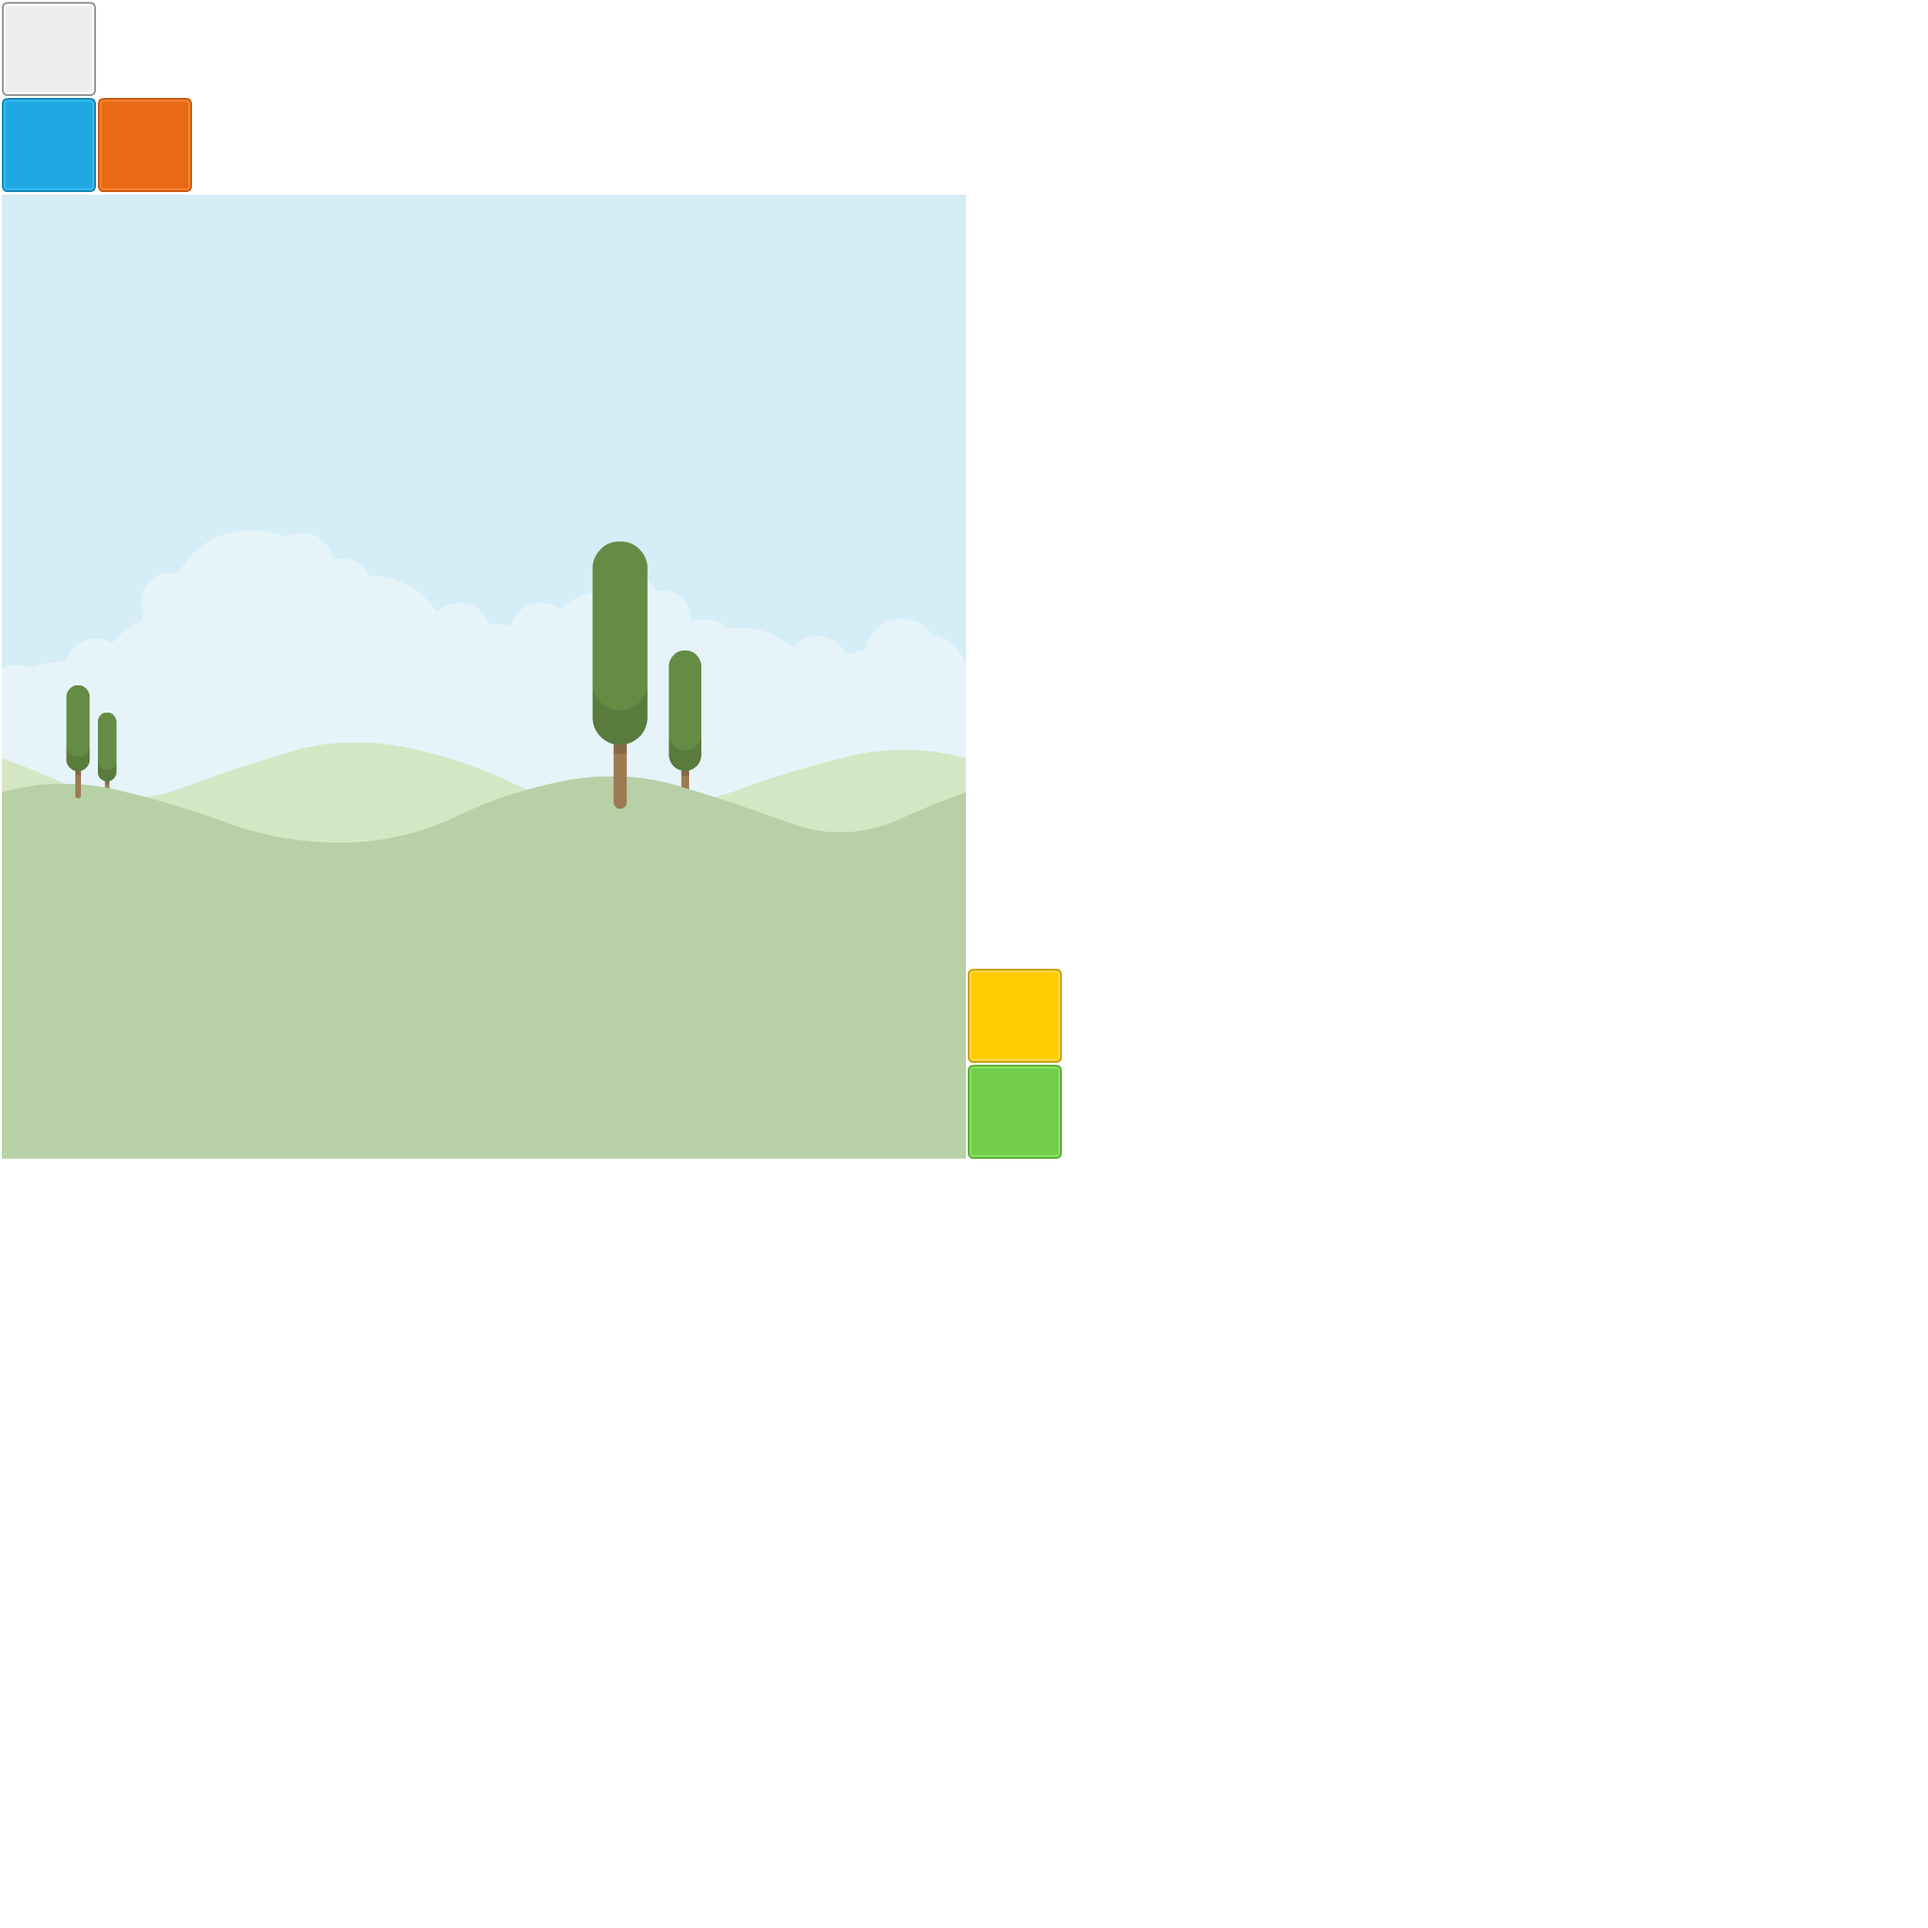
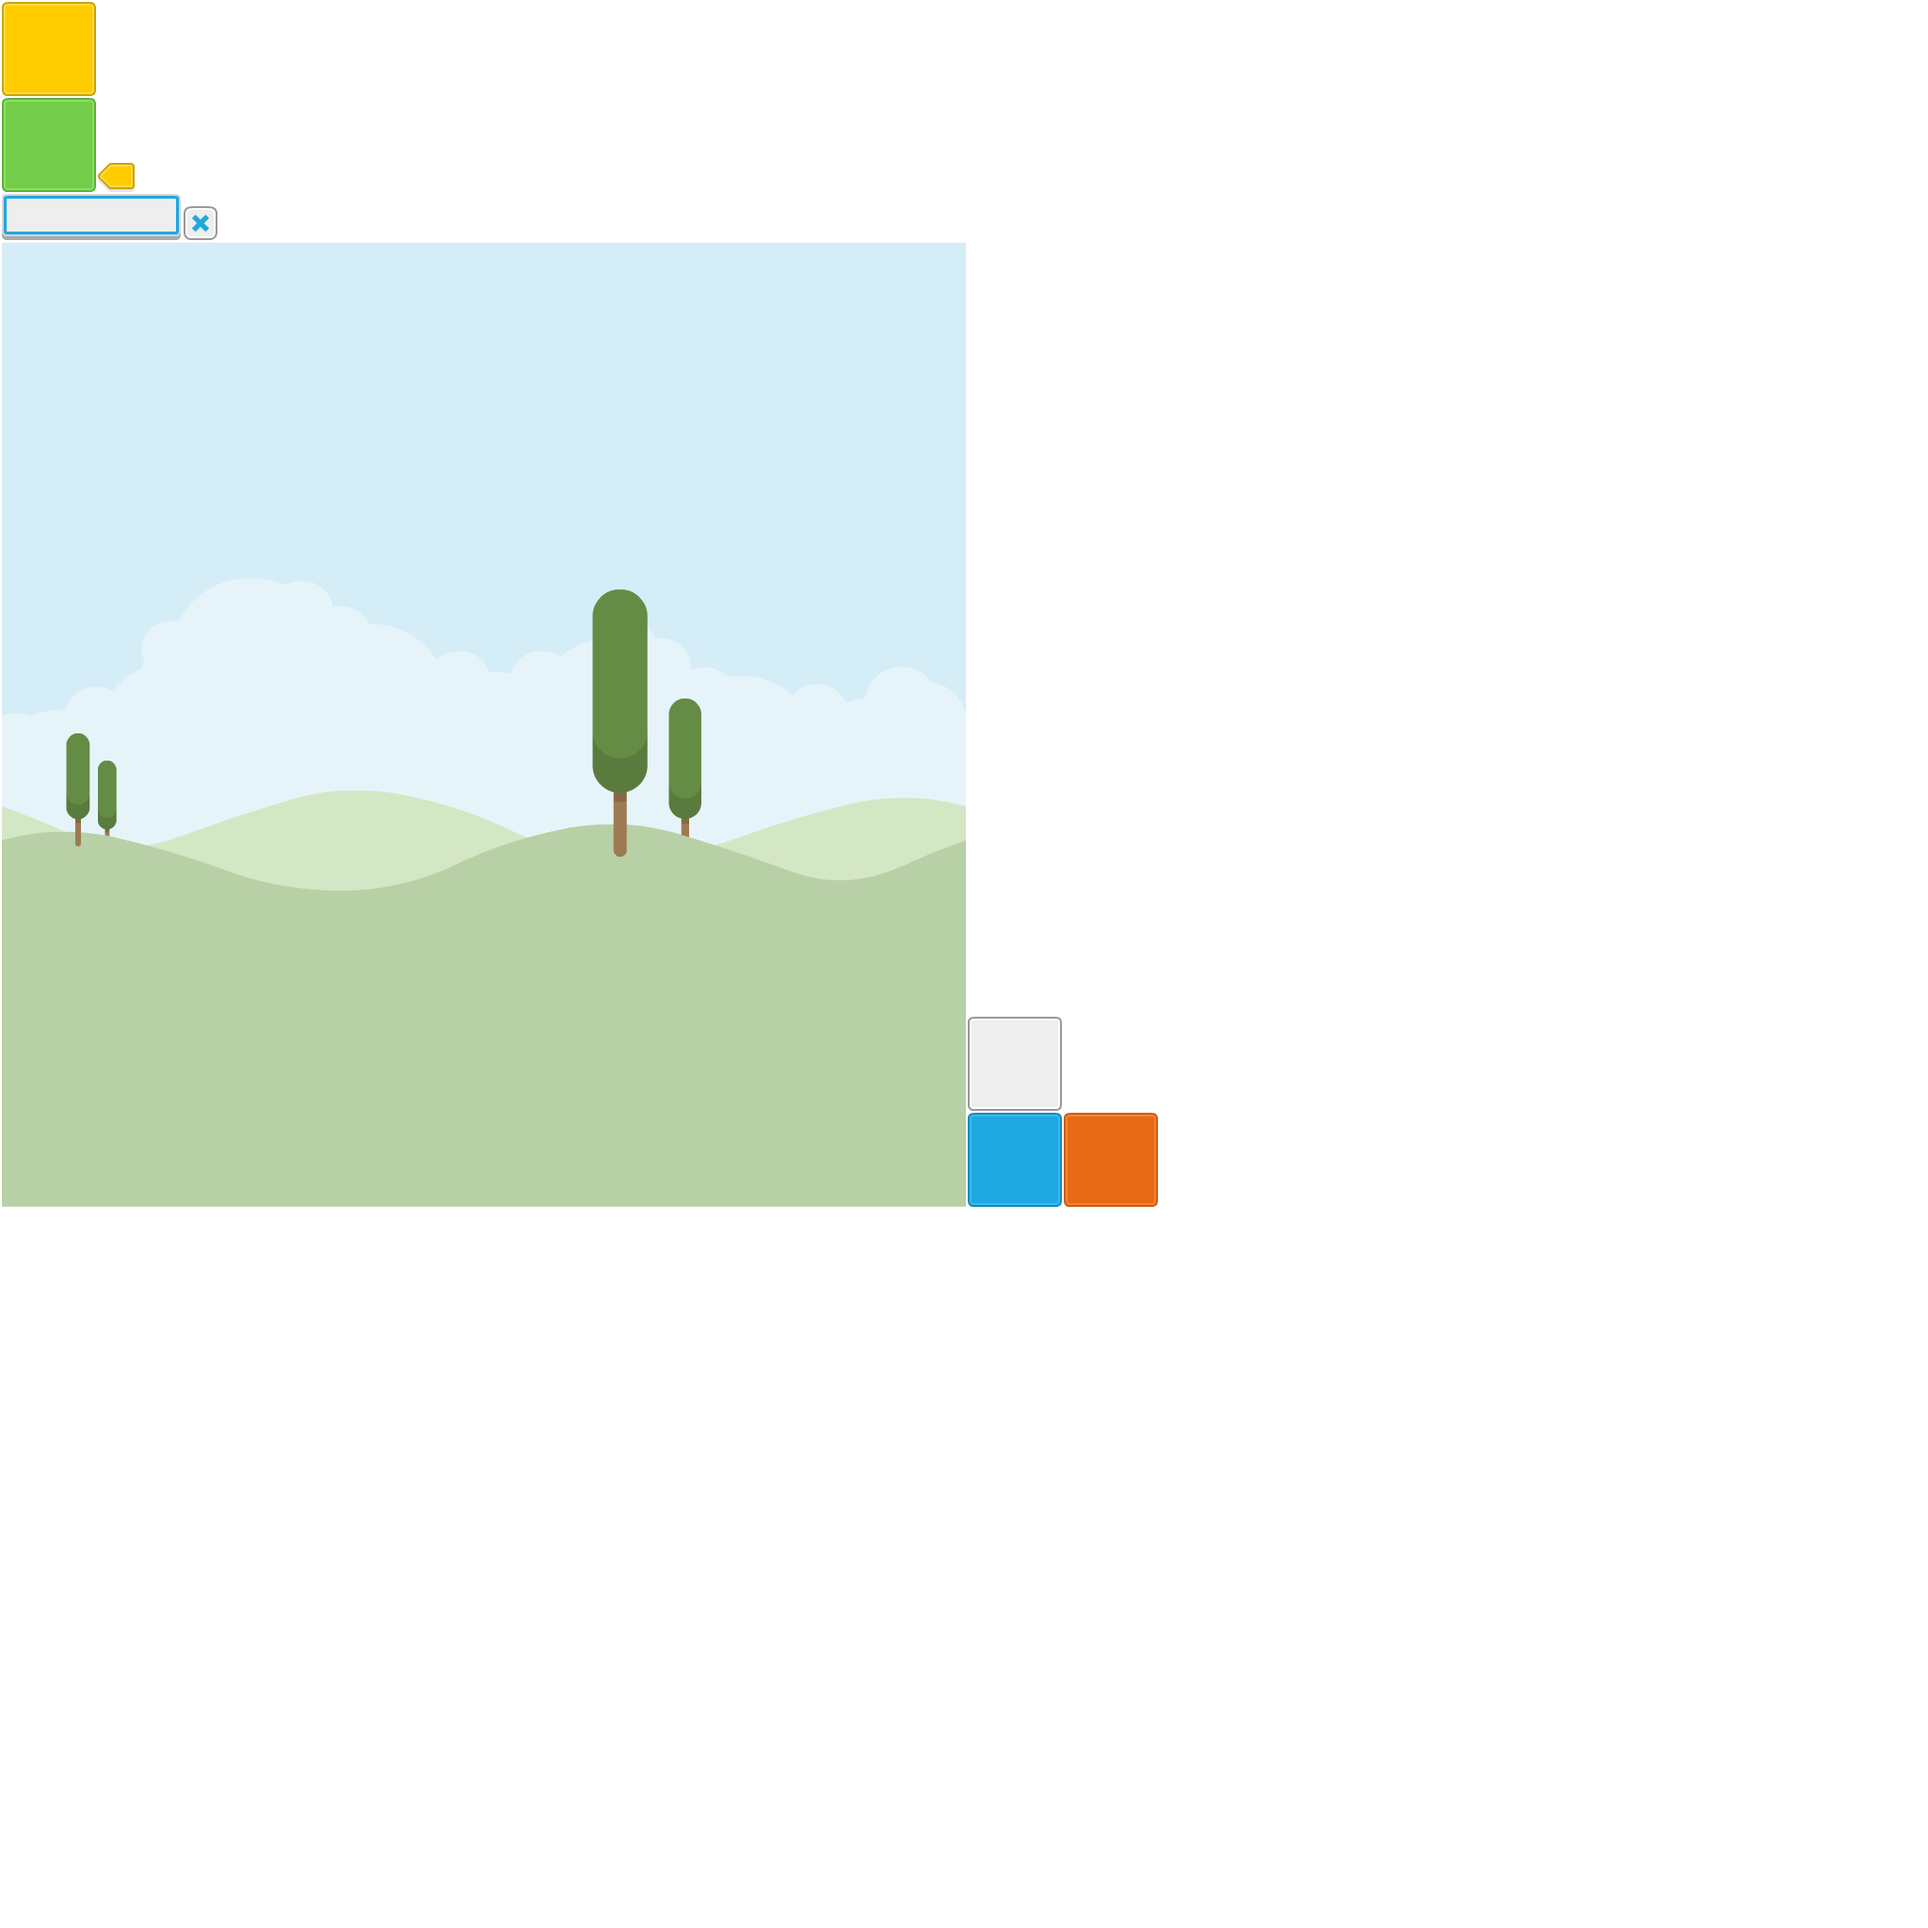
Added game UI using Overlay2D.

diff --git a/core/src/com/nicktoony/getaway/rooms/RoomGame.java b/core/src/com/nicktoony/getaway/rooms/RoomGame.java
@@ -1,7 +1,6 @@
 package com.nicktoony.getaway.rooms;
 
 import com.badlogic.gdx.Gdx;
-import com.badlogic.gdx.Screen;
 import com.badlogic.gdx.audio.Music;
 import com.badlogic.gdx.graphics.GL20;
 import com.badlogic.gdx.graphics.OrthographicCamera;
@@ -9,11 +8,12 @@ import com.badlogic.gdx.graphics.g2d.SpriteBatch;
 import com.badlogic.gdx.utils.Scaling;
 import com.badlogic.gdx.utils.viewport.ScalingViewport;
 import com.nicktoony.getaway.Game;
-import com.nicktoony.getaway.GameConfig;
 import com.nicktoony.getaway.components.Entity;
 import com.nicktoony.getaway.entities.Player;
 import com.nicktoony.getaway.entities.PoliceManager;
 import com.nicktoony.getaway.entities.Road;
+import com.nicktoony.getaway.services.BetterResourceManager;
+import com.uwsoft.editor.renderer.SceneLoader;
 
 import java.util.ArrayList;
 import java.util.List;
@@ -28,16 +28,20 @@ public class RoomGame extends Room {
     private List<Entity> newEntitiesList = new ArrayList<Entity>();
     private OrthographicCamera camera;
     private Road road;
-    private ScalingViewport scalingViewport;
+    private ScalingViewport gameViewport;
+    private ScalingViewport uiViewport;
     private Player player;
+    private SceneLoader sceneLoader;
 
     public RoomGame(Game game) {
         super(game);
         batch = new SpriteBatch();
 
-        Music music = Gdx.audio.newMusic(Gdx.files.internal("music/rocket.mp3"));
-        music.play();
-        music.setLooping(true);
+        if (game.getConfig().sound_music) {
+            Music music = Gdx.audio.newMusic(Gdx.files.internal("music/rocket.mp3"));
+            music.play();
+            music.setLooping(true);
+        }
 
         road = new Road();
         addEntity(road);
@@ -46,7 +50,12 @@ public class RoomGame extends Room {
 
         camera = new OrthographicCamera();
         camera.setToOrtho(false);
-        scalingViewport = new ScalingViewport(Scaling.fill, game.getConfig().game_resolution_x, game.getConfig().game_resolution_y, camera);
+        gameViewport = new ScalingViewport(Scaling.fill, game.getConfig().game_resolution_x, game.getConfig().game_resolution_y, camera);
+
+        uiViewport = new ScalingViewport(Scaling.fill, game.getConfig().game_resolution_x, game.getConfig().game_resolution_y);
+        BetterResourceManager betterResourcesManager = new BetterResourceManager("overlay2d/");
+        sceneLoader = new SceneLoader(betterResourcesManager);
+        sceneLoader.loadScene("Game", uiViewport);
     }
 
     @Override
@@ -61,7 +70,7 @@ public class RoomGame extends Room {
 
         // Sort the camera and viewport
         camera.position.set(game.getConfig().game_resolution_x / 2, game.getConfig().game_resolution_y / 2, 0);
-        scalingViewport.update(Gdx.graphics.getWidth(), Gdx.graphics.getHeight());
+        gameViewport.update(Gdx.graphics.getWidth(), Gdx.graphics.getHeight());
 
         // Add new entities
         if (!newEntitiesList.isEmpty()) {
@@ -81,6 +90,9 @@ public class RoomGame extends Room {
             entity.render(batch);
         }
         batch.end();
+
+        // Render UI
+        sceneLoader.getEngine().update(delta);
     }
 
     @Override

diff --git a/core/src/com/nicktoony/getaway/entities/Road.java b/core/src/com/nicktoony/getaway/entities/Road.java
@@ -221,7 +221,7 @@ public class Road extends Entity {
      * @return
      */
     public RoadPosition findScreenPosition(float x, float y) {
-        RoadPosition vector2 = new RoadPosition(0, 0, 0);
+        RoadPosition vector2 = new RoadPosition(0, -999, 0);
         for (UpcomingRoad road : upcomingRoads) {
             if (road.y <= game.getHeight()*y) {
                 vector2.x = (int) (road.x + (getRoadWidth()/2 - ROAD_OFFSET_SIDES)*x);

diff --git a/desktop/src/com/nicktoony/getaway/desktop/DesktopLauncher.java b/desktop/src/com/nicktoony/getaway/desktop/DesktopLauncher.java
@@ -7,6 +7,8 @@ import com.nicktoony.getaway.Game;
 public class DesktopLauncher {
 	public static void main (String[] arg) {
 		LwjglApplicationConfiguration config = new LwjglApplicationConfiguration();
+		config.width = 1024;
+		config.height = 768;
 		new LwjglApplication(new Game(), config);
 	}
 }

diff --git a/core/src/com/nicktoony/getaway/GameConfig.java b/core/src/com/nicktoony/getaway/GameConfig.java
@@ -7,4 +7,5 @@ public class GameConfig {
     public int game_resolution_x = 1024;
     public int game_resolution_y = 768;
     public boolean game_fullscreen = false;
+    public boolean sound_music = false;
 }
